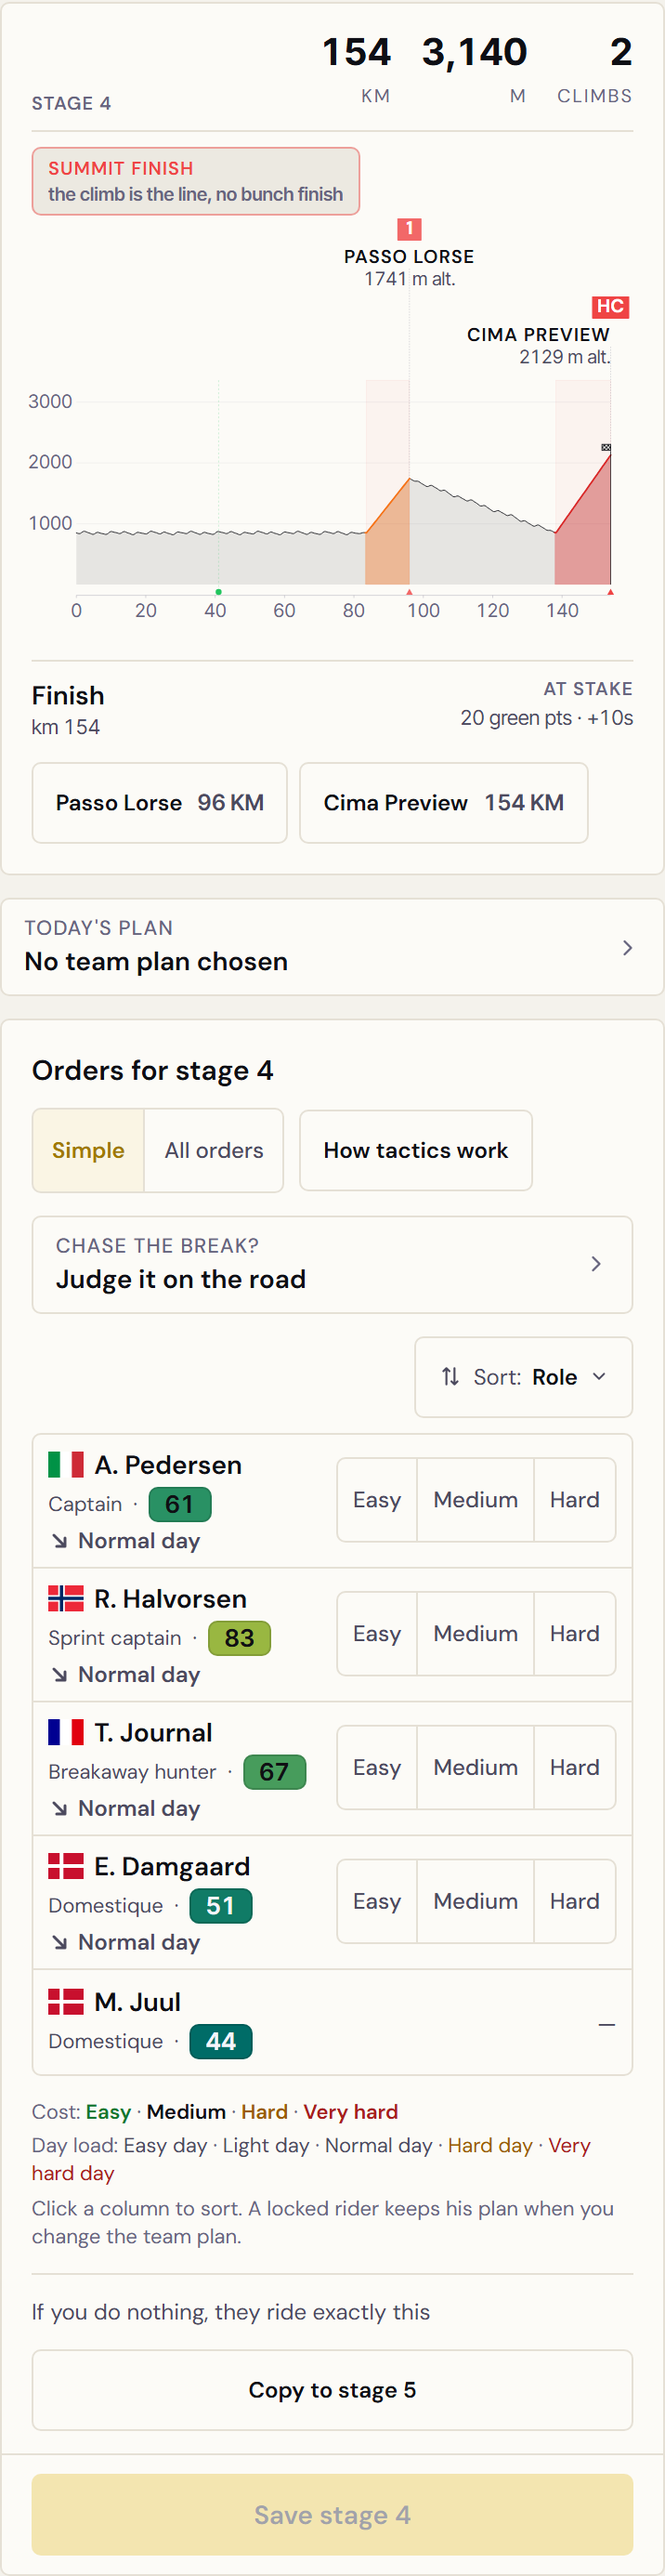
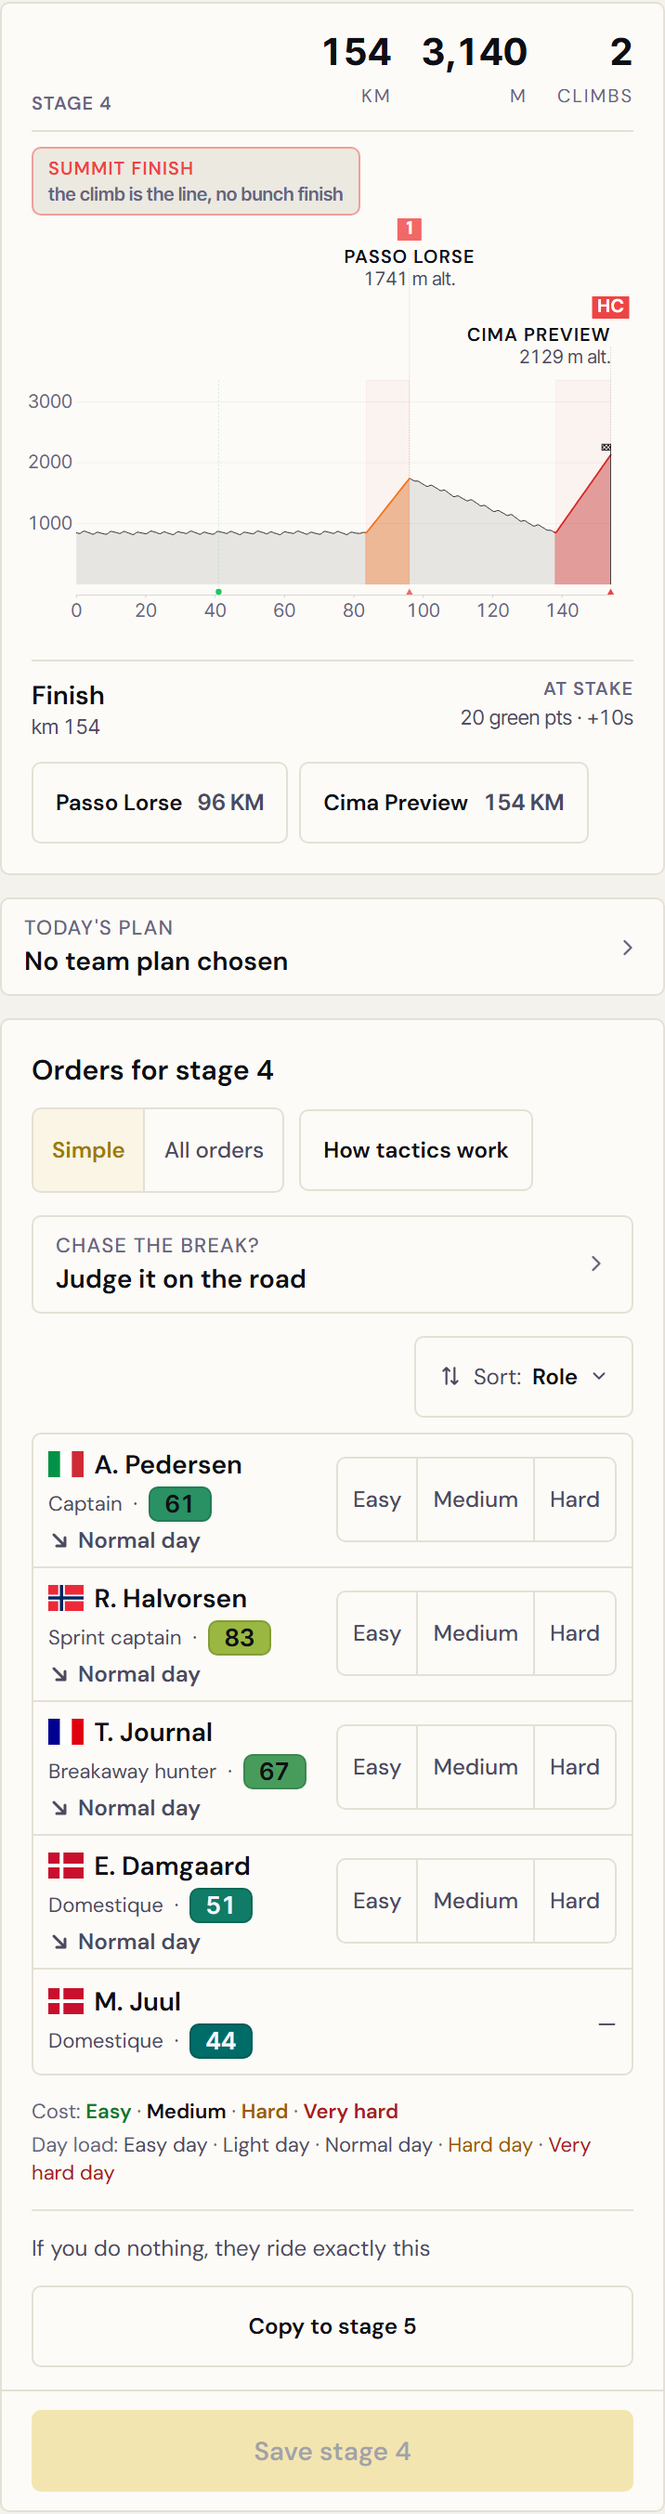
fix(taktik): "klik paa en kolonne" vises ikke paa telefonen, billederne taget om (Refs #8386)

diff --git a/frontend/src/components/race/RaceTacticsTab.jsx b/frontend/src/components/race/RaceTacticsTab.jsx
@@ -1486,7 +1486,7 @@ export default function RaceTacticsTab({ raceId, profileByStage = {}, showOrders
             ))}
           </span>
         </p>
-        <p className="m-0">{tt("legend.sort")}</p>
+        <p className="m-0 @max-[58.5rem]/tactics:hidden">{tt("legend.sort")}</p>{/* #8386: telefonen har ingen kolonner */}
       </>
     );
     const ordersToggle = (
